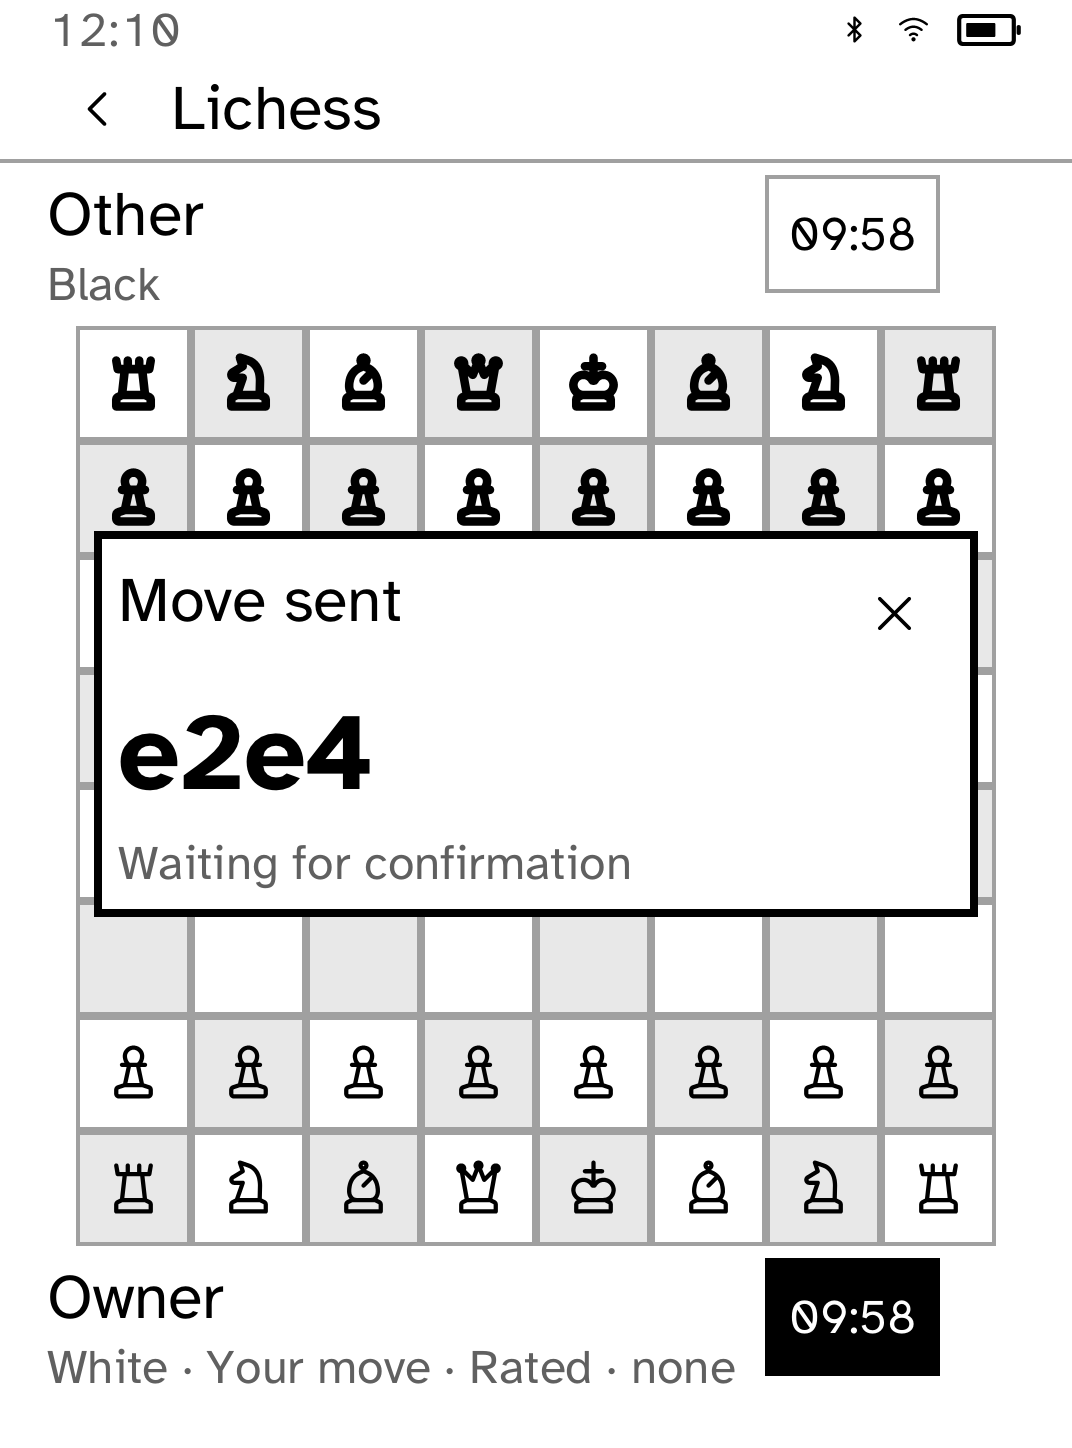
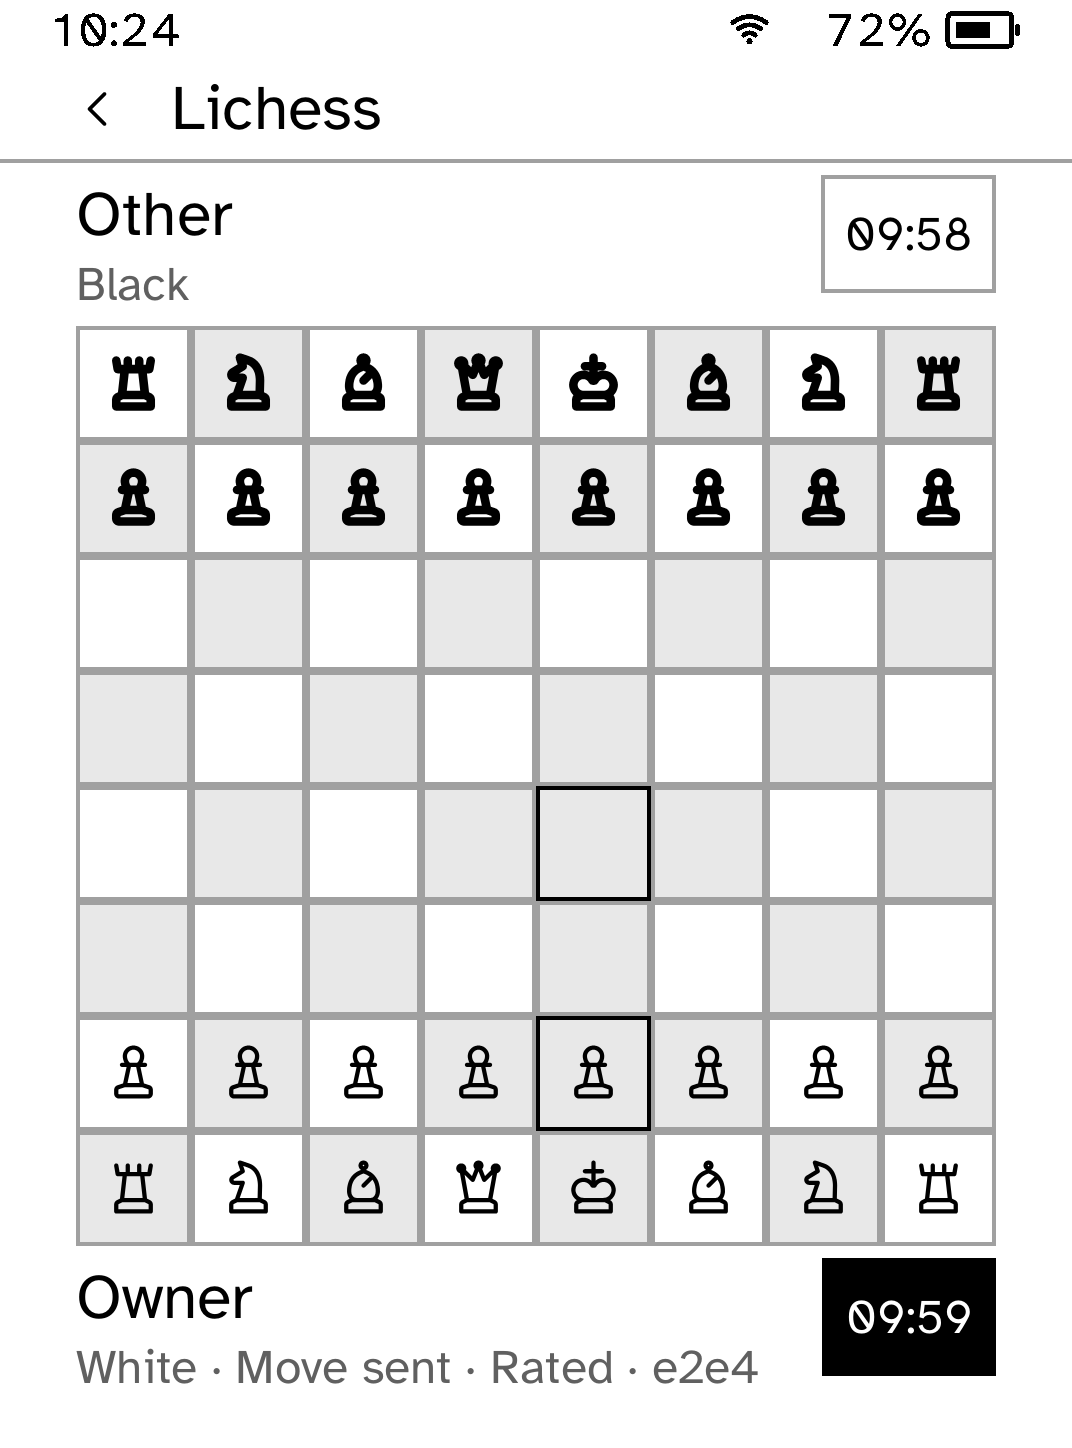
Line Lichess's player bars up with the board on both sides
A board is as large as the height left for it allows, so beside a clock it came out a little narrower than the page and centred, while the bars above and below it were set to the page. The clocks ended a few pixels past the board's right edge and the names began a few pixels before its left one. The runtime now lays a band that sits directly against a chess or draughts board out again at the board's width.

The published live game screenshots, the resumed board and the move waiting for Lichess are retaken.

diff --git a/docs/apps/lichess/index.html b/docs/apps/lichess/index.html
@@ -120,7 +120,7 @@
   </section>
   <section class="whats-new">
     <h2>New in 1.0.22</h2>
-    <p>Home cards lose the side rail and say Your games, the Computer card says when a game waits, move targets are even grey dots, a finished game offers New game in place of Undo, and Puzzles says how many wait.</p>
+    <p>Home cards say Your games, the Computer card says when a game waits, move targets are even grey dots, a finished game offers New game, and the names and clocks line up with the board's edges.</p>
   </section>
   <section class="panel prerequisites" aria-labelledby="prerequisites-title">
     <p class="eyebrow">App setup</p>

diff --git a/crates/kobo-ui/src/lib.rs b/crates/kobo-ui/src/lib.rs
@@ -2254,6 +2254,7 @@ impl Screen {
         // column, so the values of two blocks under two sections start at the
         // same place rather than wherever each block's longest label ended.
         let shared_facts = SharedFactLabel::enter(shared_fact_label(&self.nodes));
+        let mut placed: Vec<PlacedFlowNode> = Vec::new();
         for (position, node) in self.nodes.iter().enumerate() {
             if layout.nodes.len() >= MAX_LAYOUT_NODES || cursor >= content_bottom {
                 if self.nodes[position..]
@@ -2314,6 +2315,8 @@ impl Screen {
                 gap,
                 true,
             );
+            let first = layout.nodes.len();
+            let top = cursor;
             cursor = with_flow_height_bound(bottom < content_bottom, || {
                 layout_flow_node(
                     node,
@@ -2327,12 +2330,21 @@ impl Screen {
                     &mut layout,
                 )
             });
+            placed.push(PlacedFlowNode {
+                position,
+                nodes: first..layout.nodes.len(),
+                top,
+                end: cursor,
+                bottom,
+                bounded: bottom < content_bottom,
+            });
             layout.flow_height = cursor.saturating_sub(content_top).max(0);
             if cursor > content_bottom {
                 note_cut_short();
             }
             cursor = cursor.saturating_add(gap);
         }
+        align_bands_with_boards(&self.nodes, &placed, margin, metrics, prose, &mut layout);
         drop(shared_facts);
 
         if let Some(top_bar) = self.top_bar.as_ref().filter(|_| bar_over_content) {
@@ -12150,6 +12162,99 @@ fn space_before(
     metrics
         .space(wanted)
         .saturating_sub(metrics.space(Space::Tight))
+}
+
+/// Where one root flow node landed: which layout nodes it produced, and the
+/// room it was laid out in.
+struct PlacedFlowNode {
+    position: usize,
+    nodes: std::ops::Range<usize>,
+    top: i32,
+    end: i32,
+    bottom: i32,
+    bounded: bool,
+}
+
+/// Sets a band that sits directly above or below a chess or draughts board
+/// to the board's own width.
+///
+/// A board is as large as the height left for it allows, and so is often a
+/// little narrower than the page and centred on it. The bars round it, a
+/// player's name and clock, were set to the page instead, so the clock stood
+/// a few pixels past the board's right edge and the name a few pixels before
+/// its left one. Laying the band out again at the board's width lines both
+/// up with the squares. A band that would come out a different height at
+/// that width keeps the place it had, since everything under it is already
+/// set.
+fn align_bands_with_boards(
+    nodes: &[Node],
+    placed: &[PlacedFlowNode],
+    margin: i32,
+    metrics: &DisplayMetrics,
+    prose: Face,
+    layout: &mut Layout,
+) {
+    let mut replacements: Vec<(std::ops::Range<usize>, Vec<LayoutNode>)> = Vec::new();
+    for (index, board) in placed.iter().enumerate() {
+        let squares = layout.nodes[board.nodes.clone()].iter().filter(|node| {
+            matches!(
+                node.kind,
+                LayoutKind::Cell(_, CellStyle::BoardLight | CellStyle::BoardDark, _)
+            )
+        });
+        let Some((left, right)) = squares.fold(None, |edges: Option<(i32, i32)>, node| {
+            let (left, right) = (node.rect.x, node.rect.x + node.rect.width);
+            Some(edges.map_or((left, right), |(l, r)| (l.min(left), r.max(right))))
+        }) else {
+            continue;
+        };
+        let neighbours = [index.checked_sub(1), Some(index + 1)];
+        for band in neighbours
+            .into_iter()
+            .flatten()
+            .filter_map(|at| placed.get(at))
+        {
+            if band.position.abs_diff(board.position) != 1
+                || !matches!(nodes[band.position], Node::Band { .. })
+                || replacements.iter().any(|(range, _)| *range == band.nodes)
+            {
+                continue;
+            }
+            let was = &layout.nodes[band.nodes.clone()];
+            let band_left = was.iter().map(|node| node.rect.x).min().unwrap_or(margin);
+            let band_right = was
+                .iter()
+                .map(|node| node.rect.x + node.rect.width)
+                .max()
+                .unwrap_or(left);
+            if band_left >= left && band_right <= right {
+                continue;
+            }
+            let mut scratch = Layout {
+                prose_face: layout.prose_face,
+                ..Layout::default()
+            };
+            let end = with_flow_height_bound(band.bounded, || {
+                layout_flow_node(
+                    &nodes[band.position],
+                    left,
+                    band.top,
+                    right - left,
+                    band.bottom,
+                    0,
+                    metrics,
+                    prose,
+                    &mut scratch,
+                )
+            });
+            if end == band.end && scratch.nodes.len() == band.nodes.len() {
+                replacements.push((band.nodes.clone(), scratch.nodes));
+            }
+        }
+    }
+    for (range, replacement) in replacements {
+        layout.nodes.splice(range, replacement);
+    }
 }
 
 /// How much room trailing nodes need, so flexible content can leave it.

diff --git a/apps/lichess/src/main.rs b/apps/lichess/src/main.rs
@@ -6670,20 +6670,22 @@ mod tests {
     }
 
     #[test]
-    fn undo_and_the_clocks_end_at_the_right_edge_of_the_board() {
-        let edge = |app: &Lichess, chip: &str| {
-            let metrics = kobo_ui::CLARA_BW_METRICS;
+    fn undo_and_the_clocks_end_at_the_right_edge_of_the_board_at_every_text_size() {
+        let edges = |app: &Lichess, chip: &str, metrics: &DisplayMetrics| {
             let layout = app
                 .game_screen(&Context::default())
-                .layout_with(&metrics, &kobo_ui::Chrome::measuring(true));
+                .layout_with(metrics, &kobo_ui::Chrome::measuring(true));
             let right = |rect: kobo_ui::Rect| rect.x + rect.width;
-            let board = layout
+            let squares = layout
                 .nodes
                 .iter()
-                .filter(|node| matches!(node.kind, kobo_ui::LayoutKind::Cell(..)))
-                .map(|node| right(node.rect))
-                .max()
+                .filter(|node| matches!(node.kind, kobo_ui::LayoutKind::Cell(..)));
+            let board_left = squares
+                .clone()
+                .map(|node| node.rect.x)
+                .min()
                 .expect("board");
+            let board_right = squares.map(|node| right(node.rect)).max().expect("board");
             let chip = layout
                 .nodes
                 .iter()
@@ -6692,30 +6694,59 @@ mod tests {
                 })
                 .map(|node| right(node.rect))
                 .expect("chip");
-            (board, chip)
+            // The player's name is the band's other end, and starts where the
+            // board's first file does.
+            let name_left = layout
+                .nodes
+                .iter()
+                .filter(|node| {
+                    node.kind == kobo_ui::LayoutKind::Text
+                        && node
+                            .text_lines
+                            .iter()
+                            .any(|line| line == "Kobo" || line == "You")
+                })
+                .map(|node| node.rect.x)
+                .min()
+                .expect("a player's name");
+            (board_left, board_right, chip, name_left)
         };
-        let mut untimed = ready_app();
-        let mut context = Context::default();
-        untimed.start_computer_game(&mut context);
-        let (board, undo) = edge(&untimed, "take-back");
-        // Within a pixel: the board splits its width into eight whole squares.
-        assert!(
-            (undo - board).abs() <= 1,
-            "Undo ends at {undo}, the board at {board}"
-        );
-        // A clock is taller than the name beside it, which leaves a little
-        // less height for the board; it still ends where the band does.
-        let mut timed = ready_app();
-        timed.computer_clock = ComputerClock::Ten;
-        timed.start_computer_game(&mut context);
-        for clock in ["your-clock", "opponent-clock"] {
-            let (board, chip) = edge(&timed, clock);
-            assert!(chip >= board, "{clock} ends inside the board's edge");
-            assert!(
-                chip - board <= 12,
-                "{clock} ends {} pixels past the board",
-                chip - board
+        for text_scale in TextScale::STEPS {
+            let metrics = DisplayMetrics {
+                text_scale,
+                ..CLARA_BW_METRICS
+            };
+            let mut untimed = ready_app();
+            let mut context = Context::default();
+            untimed.start_computer_game(&mut context);
+            let (left, board, undo, name) = edges(&untimed, "take-back", &metrics);
+            assert_eq!(
+                undo, board,
+                "{text_scale:?}: Undo ends off the board's edge"
             );
+            assert_eq!(
+                name, left,
+                "{text_scale:?}: a name starts off the board's edge"
+            );
+            // A clock is taller than the name beside it, which leaves a
+            // little less height for the board, so the board is narrower
+            // than the page; the clocks still end where its squares do.
+            let mut timed = ready_app();
+            timed.computer_clock = ComputerClock::Ten;
+            timed.start_computer_game(&mut context);
+            for clock in ["your-clock", "opponent-clock"] {
+                let (left, board, chip, name) = edges(&timed, clock, &metrics);
+                assert_eq!(
+                    chip,
+                    board,
+                    "{text_scale:?}: {clock} ends {} pixels past the board",
+                    chip - board
+                );
+                assert_eq!(
+                    name, left,
+                    "{text_scale:?}: a name starts off the board's edge"
+                );
+            }
         }
     }
 
